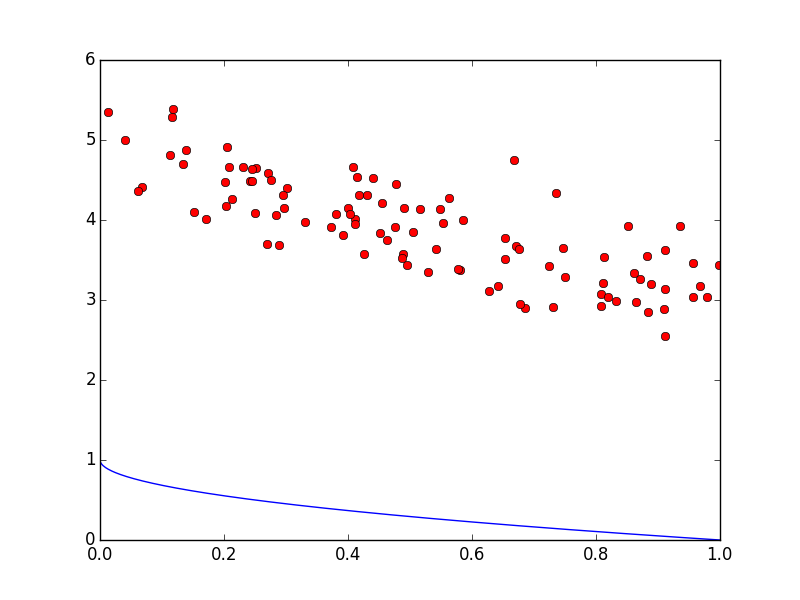
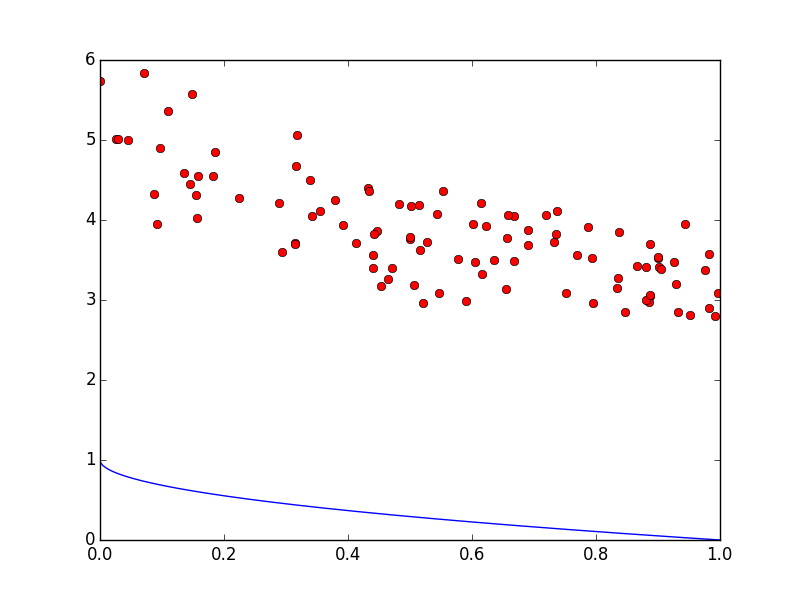
GALE added

diff --git a/gale/GALE.py b/gale/GALE.py
@@ -77,6 +77,7 @@ class GALE(Algorithm):
   def _evolve(self, selected):
     evals = 0
     GAMMA = settings().gamma
+    print("LEAVES : ", len(selected))
     for leaf in selected:
       #Poles
       east = leaf._pop[0]
@@ -106,10 +107,8 @@ class GALE(Algorithm):
       g = abs(south_pole.x - north_pole.x)
 
       for row in leaf._pop:
-        # TODO - Line 115 gale_components.py
         clone = row.clone()
         clone_x = row.x
-
         for dec_index in range(len(self.problem.decisions)):
           # Few naming shorthands
           me    = row.decisions[dec_index]
@@ -120,15 +119,14 @@ class GALE(Algorithm):
           if    me > good: d = -1
           elif  me < good: d = +1
           else           : d =  0
-          row.decisions[dec_index] = min(dec.high, max(dec.low, me + me * g * d))
 
+          row.decisions[dec_index] = min(dec.high, max(dec.low, me + me * g * d))
         # Project the mutant
         a = row.dist(self.problem, north_pole, is_obj=False)
         b = row.dist(self.problem, south_pole, is_obj=False)
         x = (a**2 + row.c**2 - b**2) / (2*row.c+0.00001)
         row.x = x
-
-        if abs(x - clone_x) > (g * GAMMA) or not self.problem.evaluate_constraints()[0]:
+        if abs(x - clone_x) > (g * GAMMA) or not self.problem.evaluate_constraints(row)[0]:
           row.decisions = clone.decisions
           row.x = clone_x
 

diff --git a/gale/where.py b/gale/where.py
@@ -128,7 +128,7 @@ class NodePoint(Point):
         tmp = self.dist(problem, one, is_obj=False)
         if better(tmp, dist):
           dist, out = tmp, one
-    return one
+    return out
 
 
   def furthest(self, problem, pop):
@@ -195,7 +195,7 @@ class Node(BinaryTree):
     """
     one = rand_one(pop)
     self.west = one.furthest(problem, pop)
-    self.east = one.furthest(problem, pop)
+    self.east = self.west.furthest(problem, pop)
     self.c = self.west.dist(problem, self.east, is_obj=False)
     for one in pop:
       a = one.dist(problem, self.west, is_obj=False)
@@ -214,10 +214,9 @@ class Node(BinaryTree):
     :param pop:
     :return:
     """
-    # TODO - I swapped east and west from the original
     self.x = pop[cut].x
-    self.west = pop[0]
-    self.east = pop[-1]
+    self.east = pop[0]
+    self.west = pop[-1]
     return pop[:cut], pop[cut:]
 
   def divide(self, threshold, abort = False):

diff --git a/gale/BinaryTree.py b/gale/BinaryTree.py
@@ -1,11 +1,13 @@
 __author__ = 'panzer'
+from utils.lib import O
 
-class BinaryTree:
+class BinaryTree(O):
   def __init__(self):
     """
     Points to root of the tree and number of children under it
     :return:
     """
+    O.__init__(self)
     self.n = 0
     self.left = None
     self.right = None

diff --git a/problems/ZDT1.py b/problems/ZDT1.py
@@ -67,7 +67,7 @@ def _run_once():
   random.seed(1)
   o = ZDT1()
   o.populate(optimizer.settings().pop_size)
-  opt = algo(o, gens=100)
+  opt = algo(o, gens=10)
   goods = opt.run()
   print(opt.convergence(goods))
   print(opt.diversity(goods))
